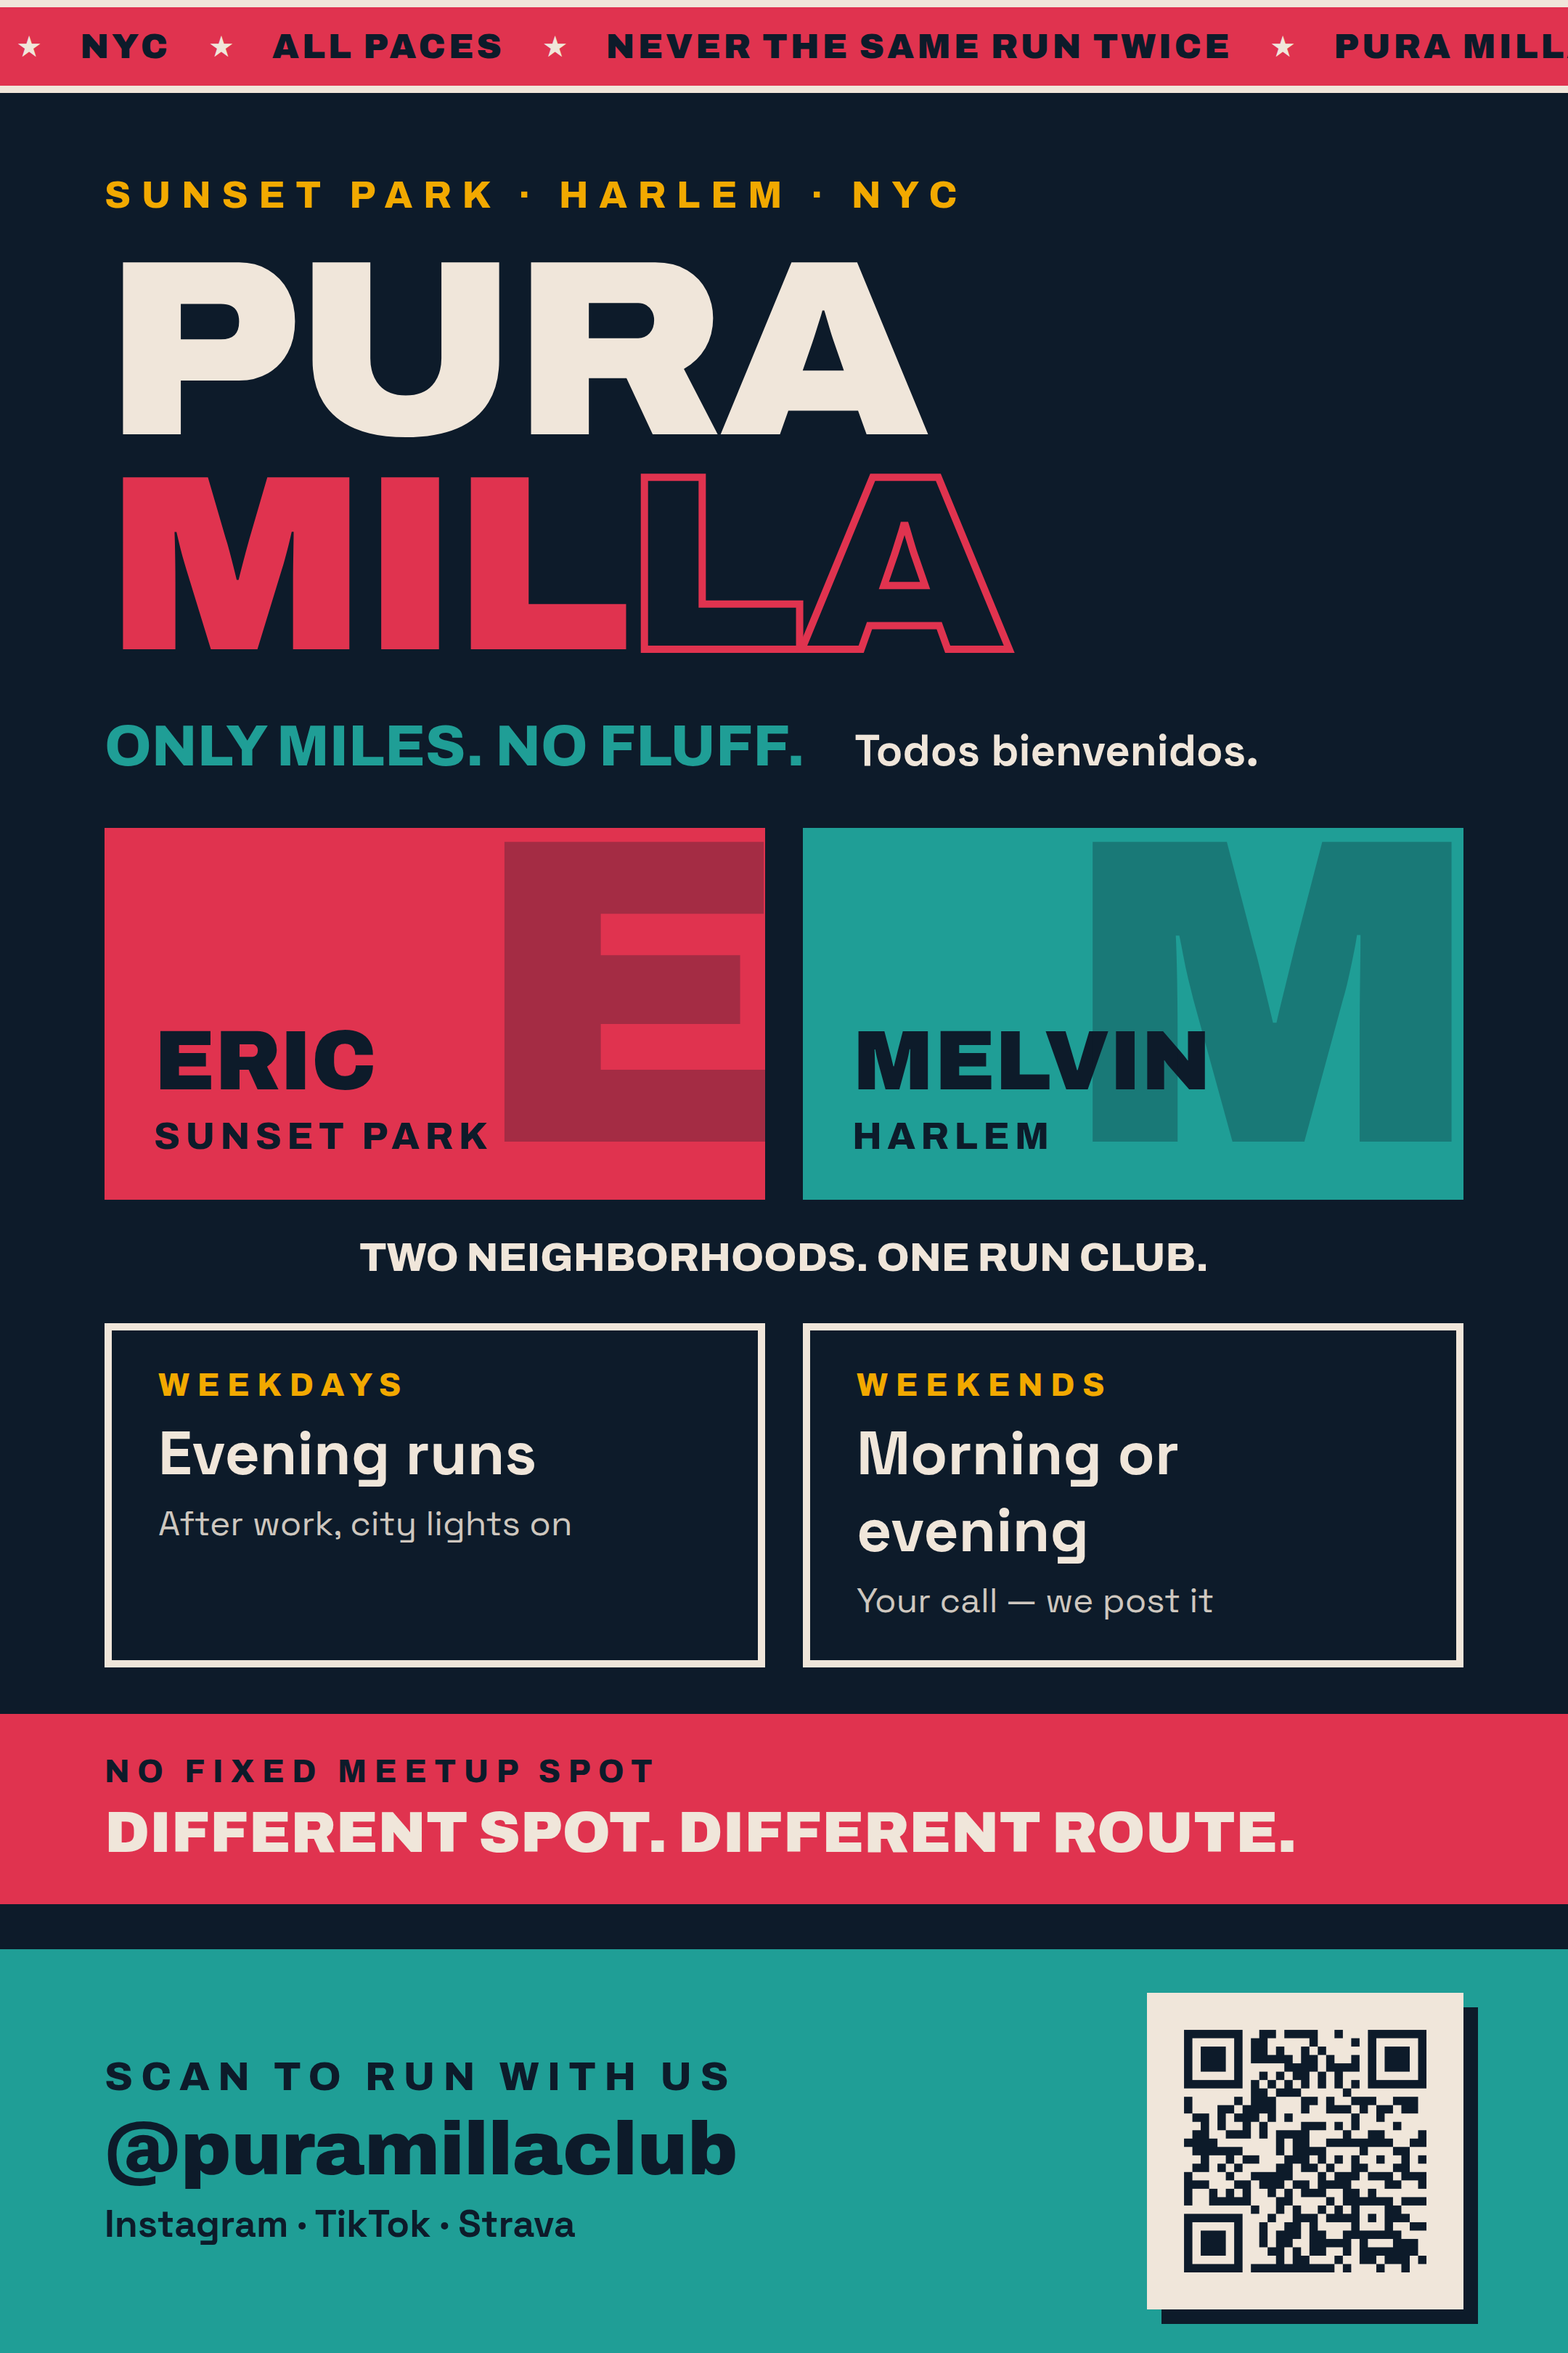
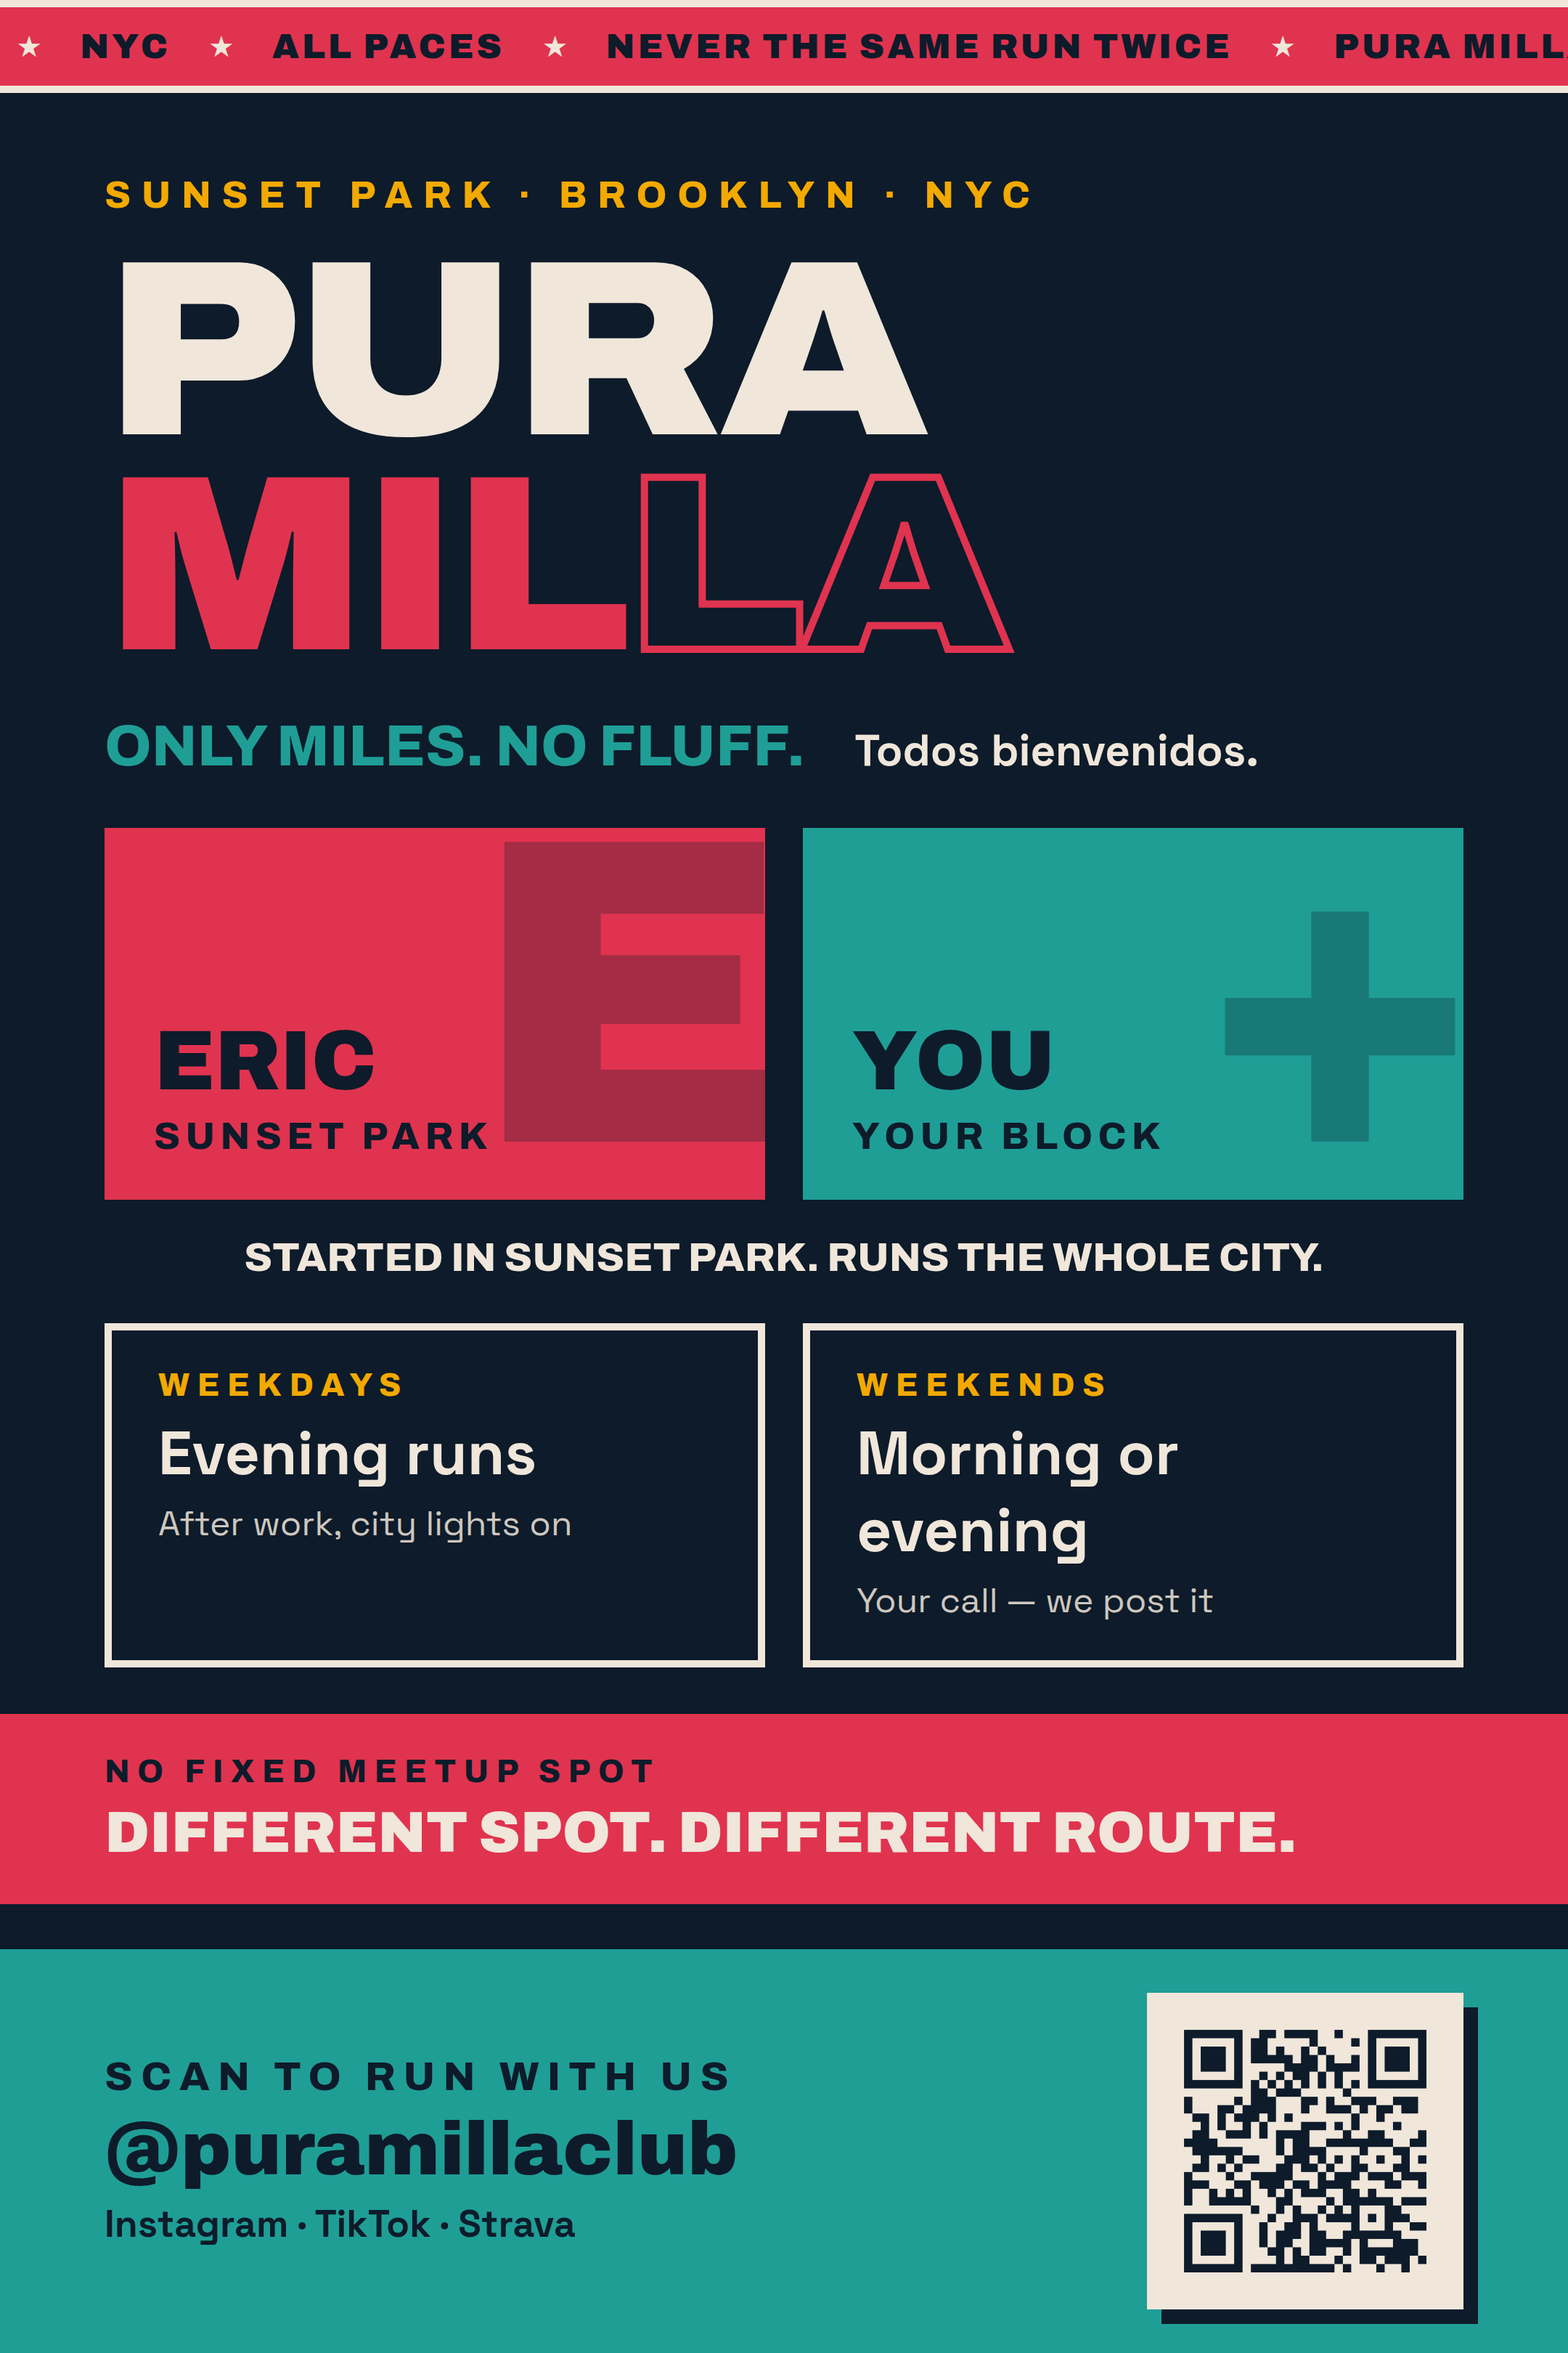
Reframe the club around a single founder
Melvin is no longer part of Pura Milla. The founders section becomes
'Started in Sunset Park. Runs the whole city.' with Eric's card and a
second card addressed to the reader, so the two-column layout holds.
The tall recruitment poster gets the same treatment.

Claude-Session: https://claude.ai/code/session_011QqYUh6PWa4vM9HAjx3P8r

diff --git a/posters/poster-tall.html b/posters/poster-tall.html
@@ -40,14 +40,14 @@ h1 .o{color:transparent;-webkit-text-stroke:5px var(--coral)}
 </style></head><body>
 <div class="ticker"><b>Pura Milla</b><i>★</i><b>Only Miles</b><i>★</i><b>NYC</b><i>★</i><b>All Paces</b><i>★</i><b>Never the Same Run Twice</b><i>★</i><b>Pura Milla</b><i>★</i><b>Only Miles</b><i>★</i><b>NYC</b><i>★</i></div>
 <div class="pad">
-  <div class="eyebrow">Sunset Park · Harlem · NYC</div>
+  <div class="eyebrow">Sunset Park · Brooklyn · NYC</div>
   <h1 class="disp"><span class="p">PURA</span><span class="m">MIL<span class="o">LA</span></span></h1>
   <div class="tagrow"><div class="tag">Only miles. No fluff.</div><div class="welcome">Todos bienvenidos.</div></div>
   <div class="founders">
     <div class="fcard c"><div class="ghost">E</div><div class="fname">Eric</div><div class="fhood">Sunset Park</div></div>
-    <div class="fcard t"><div class="ghost">M</div><div class="fname">Melvin</div><div class="fhood">Harlem</div></div>
+    <div class="fcard t"><div class="ghost">+</div><div class="fname">You</div><div class="fhood">Your block</div></div>
   </div>
-  <div class="fline">Two neighborhoods. One run club.</div>
+  <div class="fline">Started in Sunset Park. Runs the whole city.</div>
   <div class="two">
     <div class="block"><div class="lbl">Weekdays</div><div class="big">Evening runs</div><div class="small">After work, city lights on</div></div>
     <div class="block"><div class="lbl">Weekends</div><div class="big">Morning or evening</div><div class="small">Your call — we post it</div></div>

diff --git a/index.html b/index.html
@@ -410,8 +410,8 @@
 <!-- ============ FOUNDERS ============ -->
 <section id="founders">
   <div class="wrap">
-    <p class="kicker reveal">The founders</p>
-    <h2 class="h2 reveal">Two neighborhoods.<br><span class="alt2">One run club.</span></h2>
+    <p class="kicker reveal">The founder</p>
+    <h2 class="h2 reveal">Started in Sunset Park.<br><span class="alt2">Runs the whole city.</span></h2>
     <div class="founders-grid">
       <div class="founder coral reveal" data-delay="1">
         <span class="initial" aria-hidden="true">E</span>
@@ -420,13 +420,13 @@
         <p class="bio">Brooklyn born. Waits until everyone crosses the finish line.</p>
       </div>
       <div class="founder teal reveal" data-delay="2">
-        <span class="initial" aria-hidden="true">M</span>
-        <h3>Melvin</h3>
-        <p class="hood">Harlem</p>
-        <p class="bio">Holds it down uptown. Leads us to the finish line.</p>
+        <span class="initial" aria-hidden="true">+</span>
+        <h3>You</h3>
+        <p class="hood">Your neighborhood</p>
+        <p class="bio">The club is whoever shows up. Every block in the city is fair game.</p>
       </div>
       <div class="founders-line reveal" data-delay="3">
-        <p>Brooklyn ↔ Harlem, and every block in between.</p>
+        <p>Sunset Park to wherever you are.</p>
         <p class="miles">The whole city is the route.</p>
       </div>
     </div>
